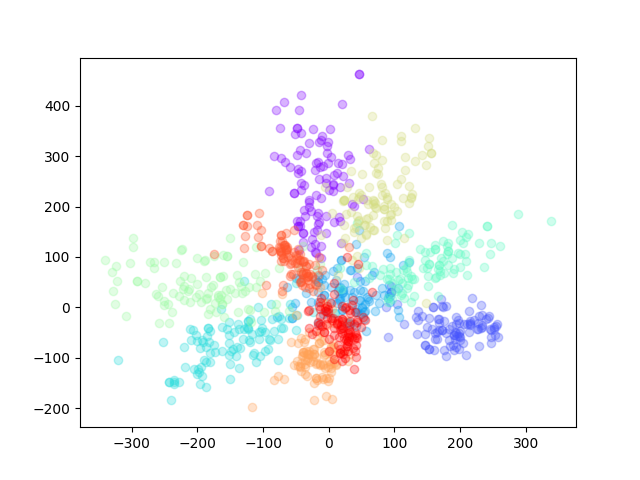
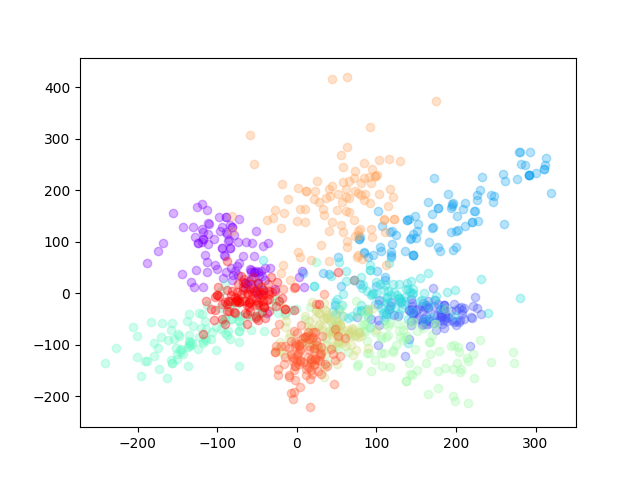
Updates to vib

diff --git a/analysis.py b/analysis.py
@@ -6,34 +6,42 @@ import pandas as pd
 import scipy.stats as stats
 import matplotlib.pyplot as plt
 
-from sklearn.decomposition import PCA
-
 def main():
-    plot_codewords_vib()
-
-def plot_codewords_vib():
-    cw_dropout = reshape_codewords(np.load("codewords2_with_vib.npy"))
-    labels_dropout = np.concatenate(np.load("true_labels_with_vib.npy"))
-    cw_no_dropout = reshape_codewords(np.load("codewords2_no_vib.npy"))
-    labels_no_dropout = np.concatenate(np.load("true_labels_no_vib.npy"))
+    cw_dropout = reshape_codewords(np.load("temp/codewords2_with_vib.npy"))
+    labels_dropout = np.concatenate(np.load("temp/true_labels_with_vib.npy"))
+    cw_no_dropout = reshape_codewords(np.load("temp/codewords2_no_vib.npy"))
+    labels_no_dropout = np.concatenate(np.load("temp/true_labels_no_vib.npy"))
 
     all_labels = np.unique(labels_dropout)
     cw_dropout_class = {x: cw_dropout[labels_dropout == x,:] for x in all_labels}
     cw_no_dropout_class = {x: cw_no_dropout[labels_dropout == x,:] for x in all_labels}
 
-    colors = plt.cm.rainbow(np.linspace(0, 1, all_labels.size))
-    for lbl in all_labels:
-        sampler = np.random.choice(cw_dropout_class[lbl].shape[0], 100)
-        data = cw_dropout_class[lbl][sampler,:]
-        plt.scatter(data[:,0], data[:,1], color=colors[lbl], alpha=0.3)
-    plt.savefig("plots/codewords_with_vib.png")
-    plt.close()
+    plot_codewords(cw_dropout_class, True)
+    plot_codewords(cw_no_dropout_class, False)
 
+    cw_dropout = reshape_codewords(np.load("temp/codewords128_with_vib.npy"))
+    labels_dropout = np.concatenate(np.load("temp/true_labels_with_vib.npy"))
+    cw_no_dropout = reshape_codewords(np.load("temp/codewords128_no_vib.npy"))
+    labels_no_dropout = np.concatenate(np.load("temp/true_labels_no_vib.npy"))
+
+    all_labels = np.unique(labels_dropout)
+    cw_dropout_class = {x: cw_dropout[labels_dropout == x,:] for x in all_labels}
+    cw_no_dropout_class = {x: cw_no_dropout[labels_dropout == x,:] for x in all_labels}
+
+    similarity_vib = compute_within_class_similarity(cw_dropout_class)
+    similarity_no_vib = compute_within_class_similarity(cw_no_dropout_class)
+
+
+def plot_codewords(cw_classes, vib):
+    all_labels = cw_classes.keys()
+    colors = plt.cm.rainbow(np.linspace(0, 1, len(all_labels)))
     for lbl in all_labels:
-        sampler = np.random.choice(cw_no_dropout_class[lbl].shape[0], 100)
-        data = cw_no_dropout_class[lbl][sampler,:]
+        sampler = np.random.choice(cw_classes[lbl].shape[0], 100)
+        data = cw_classes[lbl][sampler,:]
         plt.scatter(data[:,0], data[:,1], color=colors[lbl], alpha=0.3)
-    plt.savefig("plots/codewords_no_vib.png")
+    
+    vib_stub = "with" if vib else "no"
+    plt.savefig("plots/codewords_{}_vib.png".format(vib_stub))
     plt.close()
 
 
@@ -42,9 +50,17 @@ def reshape_codewords(X):
     return CW.reshape(CW.shape[0], -1)
 
 
-def compute_within_class_similarity():
-    pass
-
+def compute_within_class_similarity(cw_classes):
+    average_similarities = {lbl: [] for lbl in cw_classes.keys()}
+    for lbl in cw_classes.keys():
+        for ixa in range(cw_classes[lbl].shape[0]):
+            for ixb in range(ixa+1, cw_classes[lbl].shape[0]):
+                a = cw_classes[lbl][ixa,:]
+                b = cw_classes[lbl][ixb,:]
+                eps = a - b
+                average_similarities[lbl].append(np.sqrt(np.dot(eps, eps)))
+    res = pd.Series(data={x: np.mean(y) for x,y in average_similarities.items()})
+    return res
 
 if __name__=="__main__":
     main()

diff --git a/mnist_vib.py b/mnist_vib.py
@@ -20,7 +20,7 @@ Y_test  = keras.utils.np_utils.to_categorical(y_test, 10)
 beta = 1e-5
 input_shape = (None, 784)
 sigma = 1.0
-encoder_output_size = 3
+encoder_output_size = 128
 step_size_init = 0.001
 batch_size = 128
 max_epochs = 100
